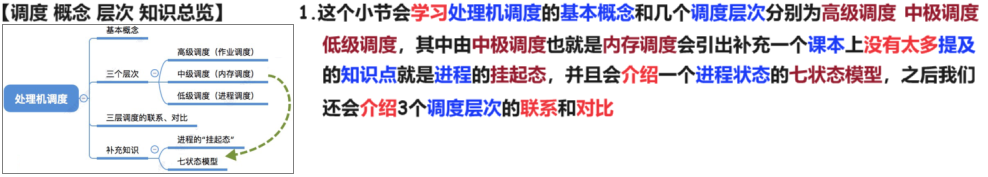
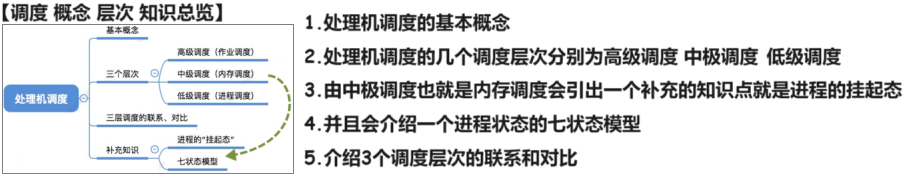
240606

diff --git a/01 初试/01 OS/02 24 25 王道/01 基础/02 进程 线程/02 处理机调度/01 调度 概念 层次 240606/02 消化/02 Doc.md b/01 初试/01 OS/02 24 25 王道/01 基础/02 进程 线程/02 处理机调度/01 调度 概念 层次 240606/02 消化/02 Doc.md
@@ -4,7 +4,7 @@
 
 # 01 调度 概念 层次 知识总览
 
-<img src="https://cvp.oss-cn-shanghai.aliyuncs.com/picgo/202404301721392.png" alt="image-20240430172126303" style="zoom:50%;" />
+<img src="https://cvp.oss-cn-shanghai.aliyuncs.com/picgo/202406060811125.png" alt="image-20240606081132976" style="zoom: 50%;" />
 
 
 
